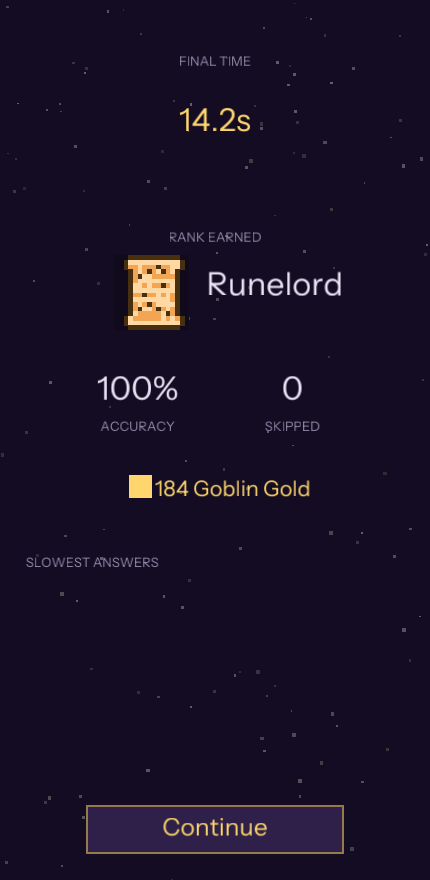
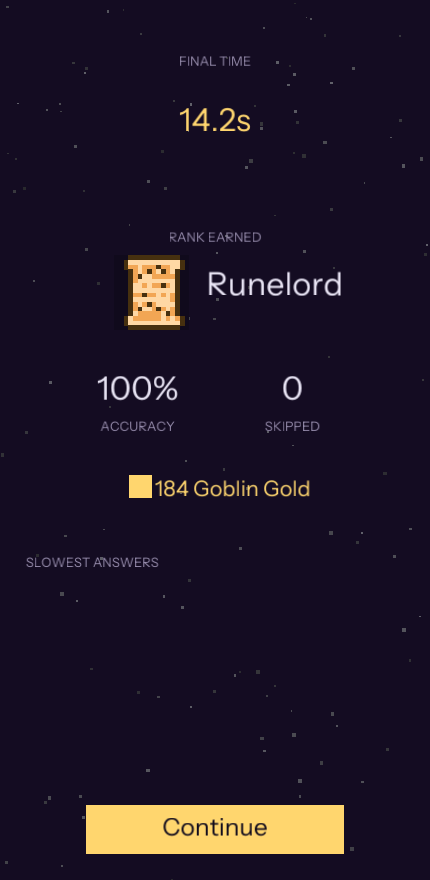
docs: button hierarchy V17 — solid-gold primary CTAs (brickmap 951943e)
push_cta solid gold for Results Continue + Arena fight bar; Back stays outlined.
Refreshed results render.

Claude-Session: https://claude.ai/code/session_01E9cJYJn3cUqfGgC4TZffwe

Changed region(s): [[0.1814, 0.8898, 0.8163, 0.9818]]

diff --git a/docs/agent/BUILDER-LOG-FX.md b/docs/agent/BUILDER-LOG-FX.md
@@ -6,6 +6,18 @@ Never edits an existing Halves file (wiring is Builder A's job). This log is min
 
 ---
 
+## BRICKMAP-GG1 FULL PORT — phase 6: button hierarchy V17 — solid-gold primary CTAs ([B], GO)
+
+The V8 "outline everywhere" overcorrected. Added `push_cta` (SOLID gold + ink label) for primary forward
+actions; **Results "Continue" + the Arena fight bar ("Pick your party"/"Fight Tier N") are now solid
+gold**, while secondary **Back** stays outlined (`push_button`). `00-1/brickmap` `951943e`. Refreshed
+`results-brickmap.png`. *(ΔE ticks 6.43→7.75 where the wider solid-gold bar adds gold vs web's smaller
+button — but V17 is the explicit eyeball hierarchy, which the area-average metric can't weigh; same
+metric-vs-eyeball note as V13.)* Gates: clippy clean (native + `aarch64-android`), full suite, GPU
+goldens (`results`/`arena` re-blessed).
+
+---
+
 ## BRICKMAP-GG1 FULL PORT — phase 6: the RESULTS screen redesign + rank portrait ([B], GO)
 
 Rebuilt the end-of-round Results to the visual bar against `results-web.png` (was a plain stat-list).